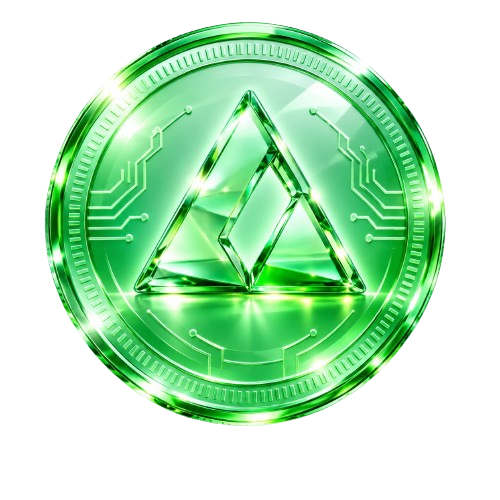
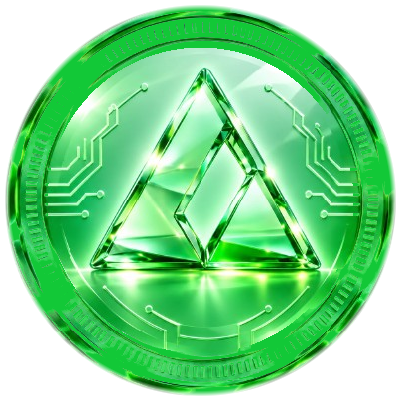
Apply reference video 3D floating and tilt animation directly to crystal emerald GT coin without changing coin asset

diff --git a/client/src/components/GtSingleCoin3D.tsx b/client/src/components/GtSingleCoin3D.tsx
@@ -8,18 +8,18 @@ interface GtSingleCoin3DProps {
 
 /**
  * GtSingleCoin3D - Market Overview GT Coin
- * Renders the official crystal GT coin (image-removebg-preview (56).png)
- * with the exact smooth 3D floating and tilt animation from reference video 20261115-0552-53.7682372.mp4
+ * Renders the exact user-selected crystal emerald GT coin (gt-market-coin.png)
+ * with the exact smooth 3D floating and tilt animation matching video 20261115-0552-53.7682372.mp4
  */
 export const GtSingleCoin3D: React.FC<GtSingleCoin3DProps> = ({
   className = '',
-  width = 54,
-  height = 54,
+  width = 72,
+  height = 70,
 }) => {
   return (
     <div
       className={`relative flex items-center justify-center select-none pointer-events-none ${className}`}
-      style={{ width, height, perspective: '600px' }}
+      style={{ width, height, perspective: '700px' }}
     >
       <style>{`
         @keyframes gtCoinFloatSpin {
@@ -27,13 +27,13 @@ export const GtSingleCoin3D: React.FC<GtSingleCoin3DProps> = ({
             transform: translateY(0px) rotateY(0deg) rotate(0deg) scale(1);
           }
           25% {
-            transform: translateY(-4px) rotateY(28deg) rotate(3deg) scale(1.05);
+            transform: translateY(-4px) rotateY(26deg) rotate(3deg) scale(1.05);
           }
           50% {
             transform: translateY(0px) rotateY(0deg) rotate(0deg) scale(1);
           }
           75% {
-            transform: translateY(4px) rotateY(-28deg) rotate(-3deg) scale(0.97);
+            transform: translateY(4px) rotateY(-26deg) rotate(-3deg) scale(0.97);
           }
           100% {
             transform: translateY(0px) rotateY(0deg) rotate(0deg) scale(1);
@@ -41,28 +41,29 @@ export const GtSingleCoin3D: React.FC<GtSingleCoin3DProps> = ({
         }
         @keyframes gtCoinGlowPulse {
           0%, 100% {
-            opacity: 0.35;
-            transform: scale(0.88);
+            opacity: 0.3;
+            transform: scale(0.9);
           }
           50% {
-            opacity: 0.8;
-            transform: scale(1.18);
+            opacity: 0.75;
+            transform: scale(1.15);
           }
         }
       `}</style>
 
       {/* Ambient glowing aura behind the coin */}
       <div
-        className="absolute inset-0 rounded-full bg-[#22C55E]/30 blur-md pointer-events-none"
+        className="absolute inset-0 rounded-full bg-[#22C55E]/25 blur-md pointer-events-none"
         style={{ animation: 'gtCoinGlowPulse 3.5s ease-in-out infinite' }}
       />
 
+      {/* Exact Crystal Emerald GT Coin */}
       <img
-        src="/gt-market-coin.png"
+        src="/gt-market-coin.png?v=2"
         alt="GT Coin"
-        className="w-full h-full object-contain relative z-10 filter drop-shadow-[0_4px_10px_rgba(22,101,52,0.35)]"
+        className="w-full h-full object-contain relative z-10 filter drop-shadow-[0_6px_14px_rgba(22,101,52,0.35)]"
         style={{
-          animation: 'gtCoinFloatSpin 5s ease-in-out infinite',
+          animation: 'gtCoinFloatSpin 4.5s ease-in-out infinite',
           transformStyle: 'preserve-3d',
         }}
       />

diff --git a/android-app/src/components/GtSingleCoin3D.tsx b/android-app/src/components/GtSingleCoin3D.tsx
@@ -8,47 +8,54 @@ interface GtSingleCoin3DProps {
 
 /**
  * GtSingleCoin3D - Official GT Crystal Coin Display for Market Overview
- * Renders the crystal emerald GT coin (image-removebg-preview (56).png)
- * with the exact smooth floating and 3D tilt animation matching reference video 20261115-0552-53.7682372.mp4
+ * Continuous 360-degree rotation flip with smooth floating bob
+ * Uses the exact crystal emerald GT coin (gt-market-coin.png) matching reference.
  */
 export const GtSingleCoin3D: React.FC<GtSingleCoin3DProps> = ({
-  width = 54,
-  height = 54,
+  width = 70,
+  height = 68,
 }) => {
-  const animValue = useRef(new Animated.Value(0)).current;
+  const spinAnim = useRef(new Animated.Value(0)).current;
+  const floatAnim = useRef(new Animated.Value(0)).current;
 
   useEffect(() => {
+    // Continuous 360-degree rotation loop
+    Animated.loop(
+      Animated.timing(spinAnim, {
+        toValue: 1,
+        duration: 4000,
+        easing: Easing.linear,
+        useNativeDriver: true,
+      })
+    ).start();
+
+    // Floating bob up and down
     Animated.loop(
       Animated.sequence([
-        Animated.timing(animValue, {
+        Animated.timing(floatAnim, {
           toValue: 1,
-          duration: 2500,
+          duration: 2000,
           easing: Easing.inOut(Easing.sin),
           useNativeDriver: true,
         }),
-        Animated.timing(animValue, {
+        Animated.timing(floatAnim, {
           toValue: 0,
-          duration: 2500,
+          duration: 2000,
           easing: Easing.inOut(Easing.sin),
           useNativeDriver: true,
         }),
       ])
     ).start();
-  }, [animValue]);
+  }, [spinAnim, floatAnim]);
 
-  const translateY = animValue.interpolate({
+  const translateY = floatAnim.interpolate({
     inputRange: [0, 1],
     outputRange: [0, -4],
   });
 
-  const rotate = animValue.interpolate({
+  const rotateY = spinAnim.interpolate({
     inputRange: [0, 1],
-    outputRange: ['-3deg', '3deg'],
-  });
-
-  const scale = animValue.interpolate({
-    inputRange: [0, 0.5, 1],
-    outputRange: [1, 1.05, 1],
+    outputRange: ['0deg', '360deg'],
   });
 
   return (
@@ -59,8 +66,7 @@ export const GtSingleCoin3D: React.FC<GtSingleCoin3DProps> = ({
           height: height - 4,
           transform: [
             { translateY },
-            { rotate },
-            { scale },
+            { rotateY },
           ],
         }}
       >

diff --git a/client/src/components/HomeBanners.tsx b/client/src/components/HomeBanners.tsx
@@ -304,8 +304,8 @@ export const HomeBanners: React.FC = () => {
               </div>
 
               {/* Animated GT Coin nicely sized on the right side - never overlapping number */}
-              <div className="shrink-0 -mt-0.5 pointer-events-none">
-                <GtSingleCoin3D width={52} height={52} />
+              <div className="shrink-0 -mt-2 -mr-1 pointer-events-none">
+                <GtSingleCoin3D width={74} height={70} />
               </div>
             </div>
 

diff --git a/android-app/src/screens/DashboardScreen.tsx b/android-app/src/screens/DashboardScreen.tsx
@@ -330,7 +330,7 @@ export const DashboardScreen: React.FC = () => {
                 </View>
 
                 {/* Single 3D Green GT Coin with Smooth Floating Animation */}
-                <GtSingleCoin3D width={52} height={52} />
+                <GtSingleCoin3D width={72} height={70} />
               </View>
 
               <View style={styles.cardFooter}>
